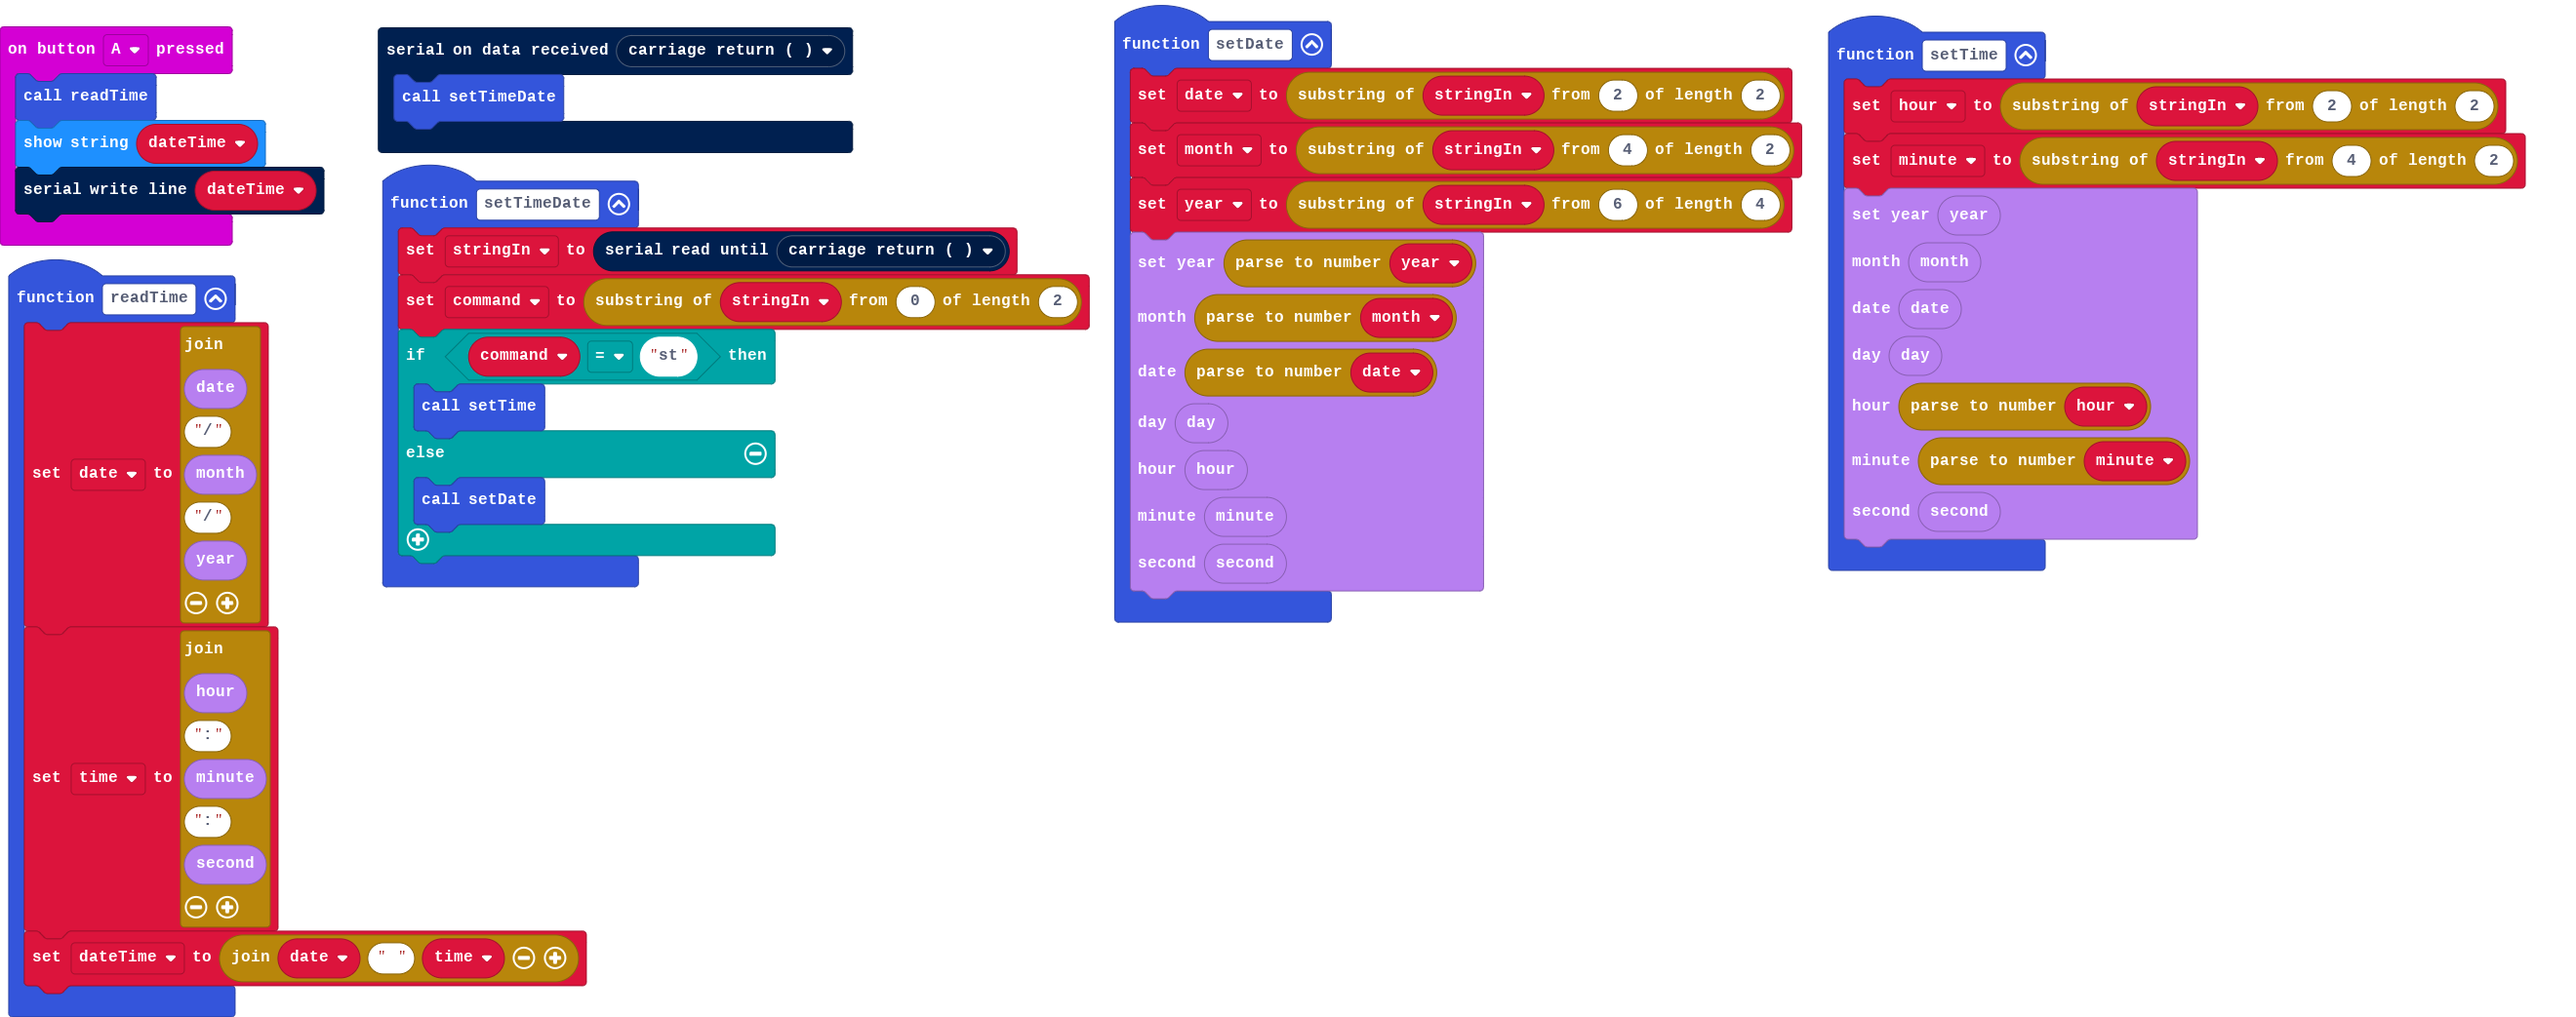
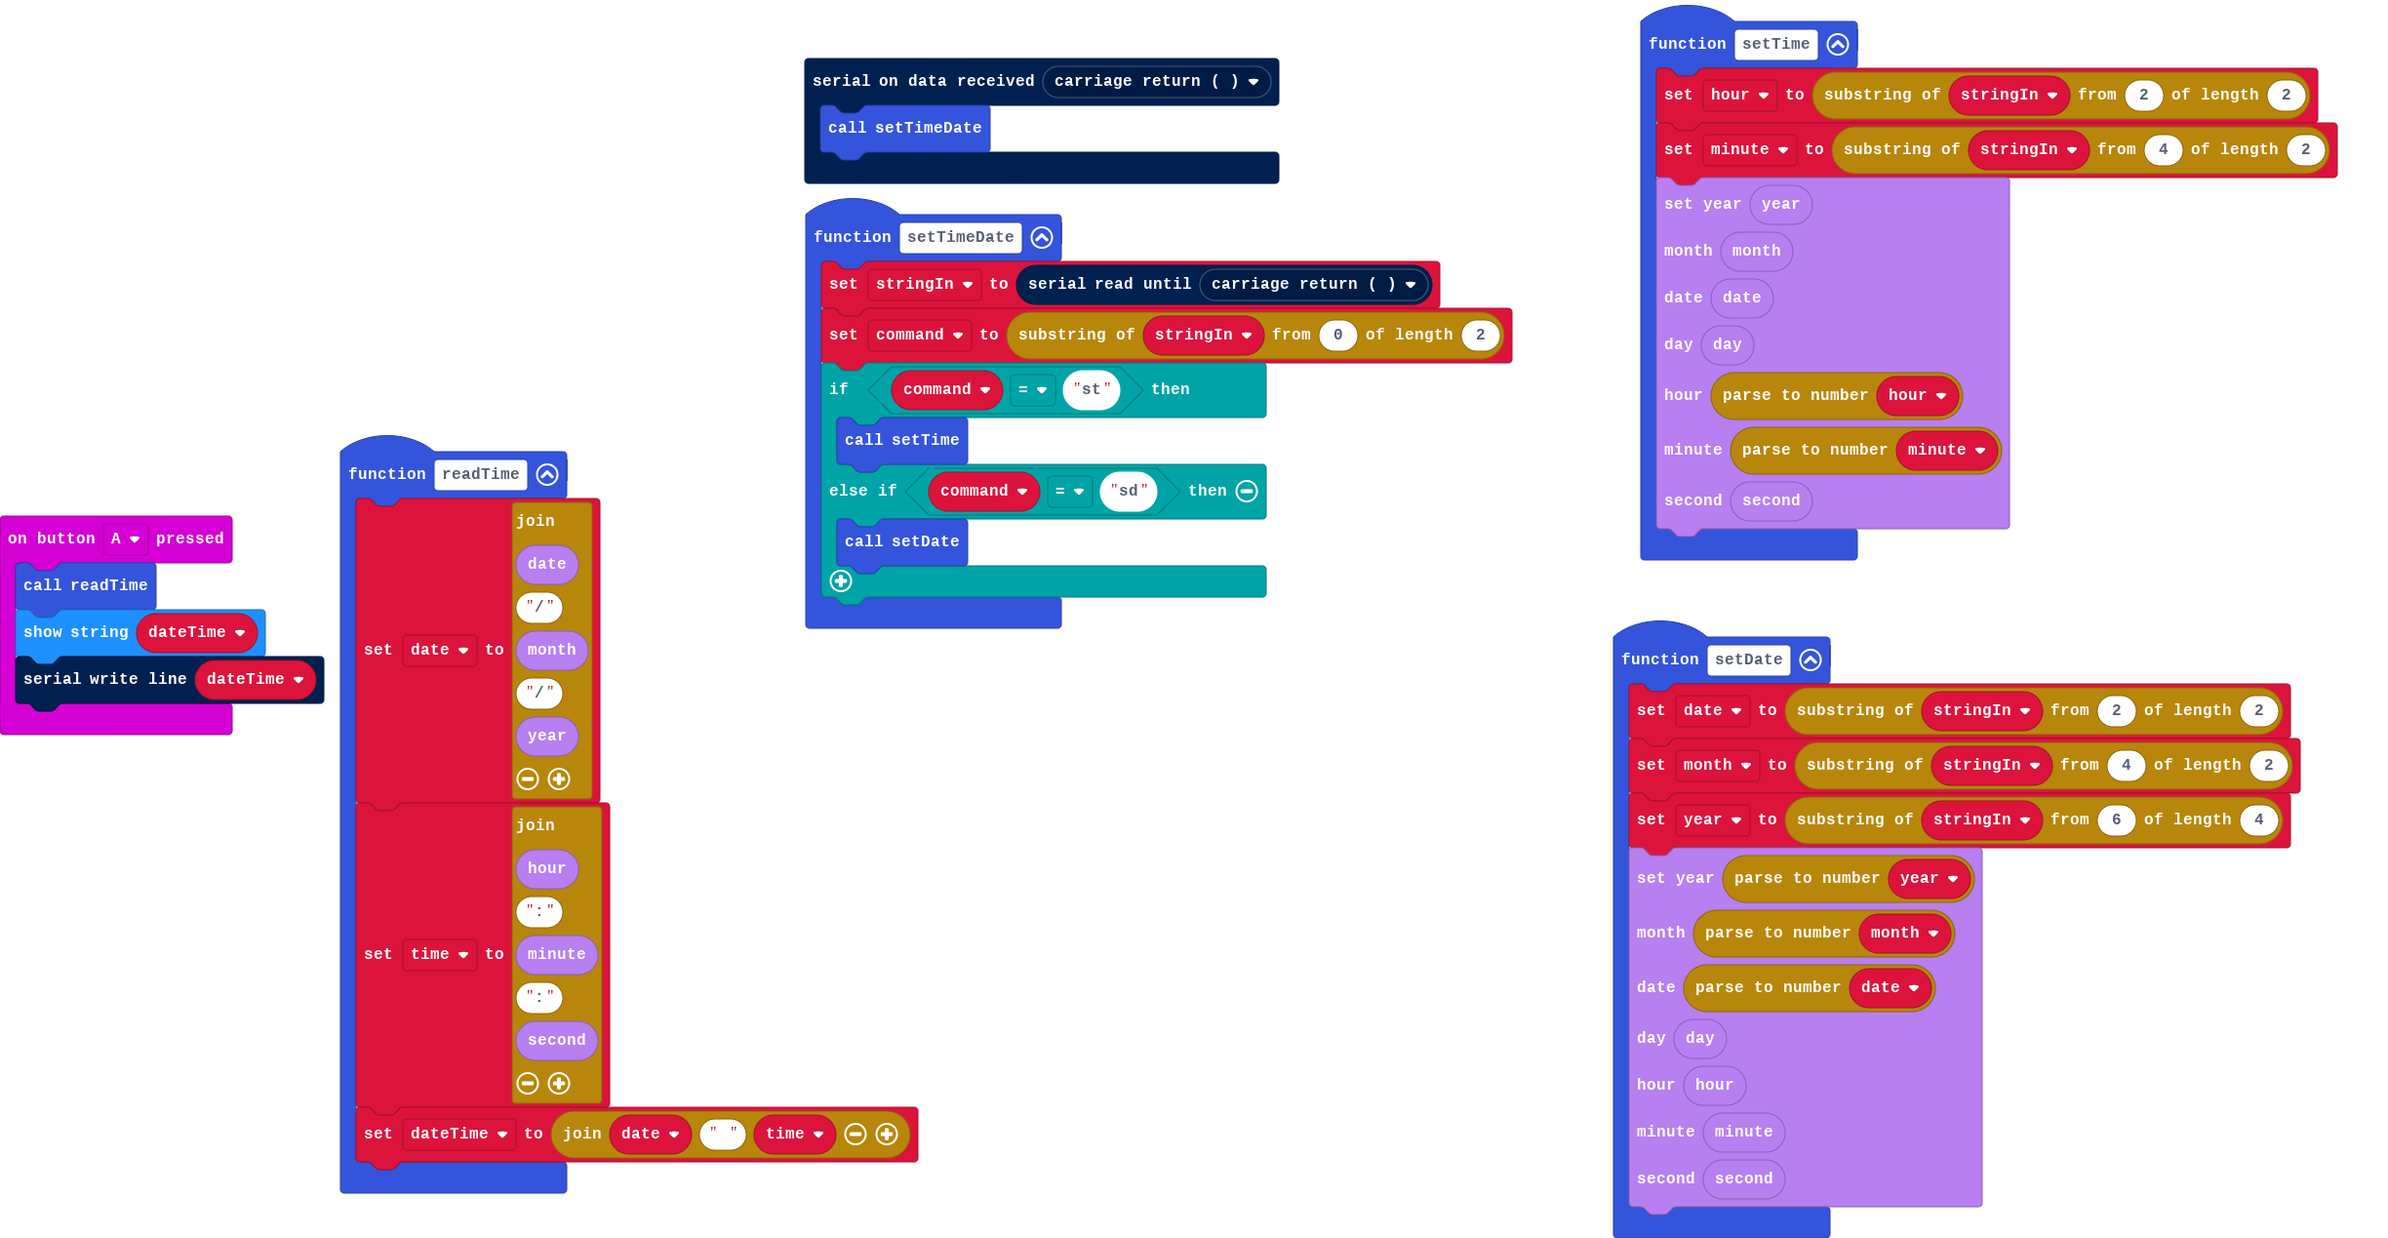
Update main.blocks, main.ts

diff --git a/main.ts b/main.ts
@@ -49,7 +49,7 @@ function setTimeDate () {
     command = stringIn.substr(0, 2)
     if (command == "st") {
         setTime()
-    } else {
+    } else if (command == "sd") {
         setDate()
     }
 }
